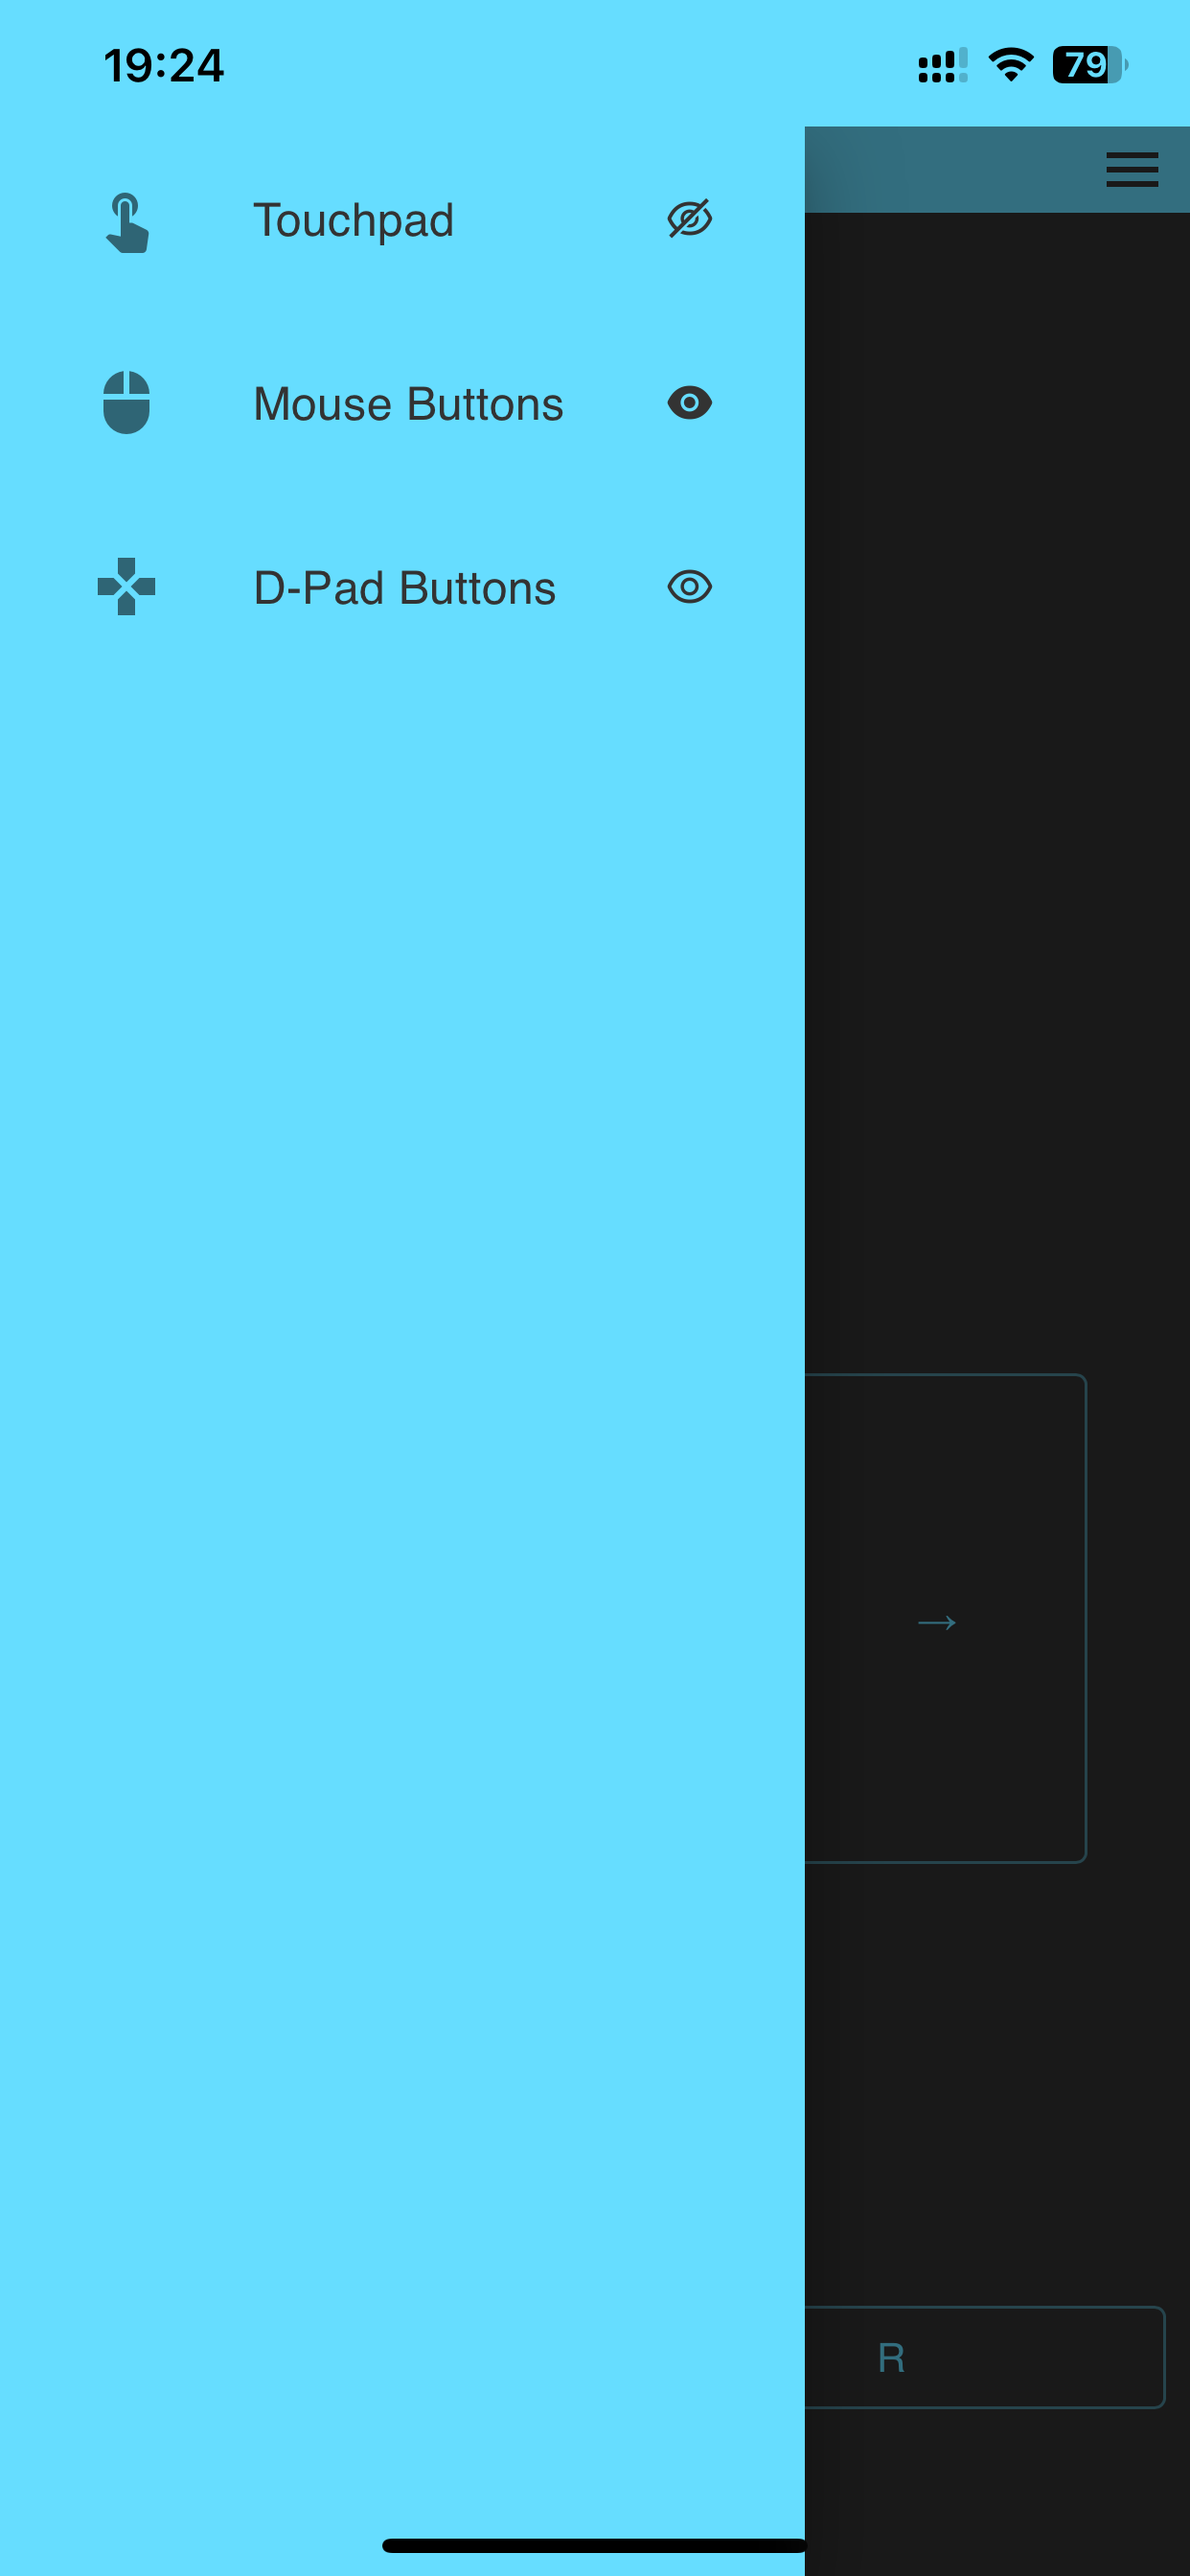
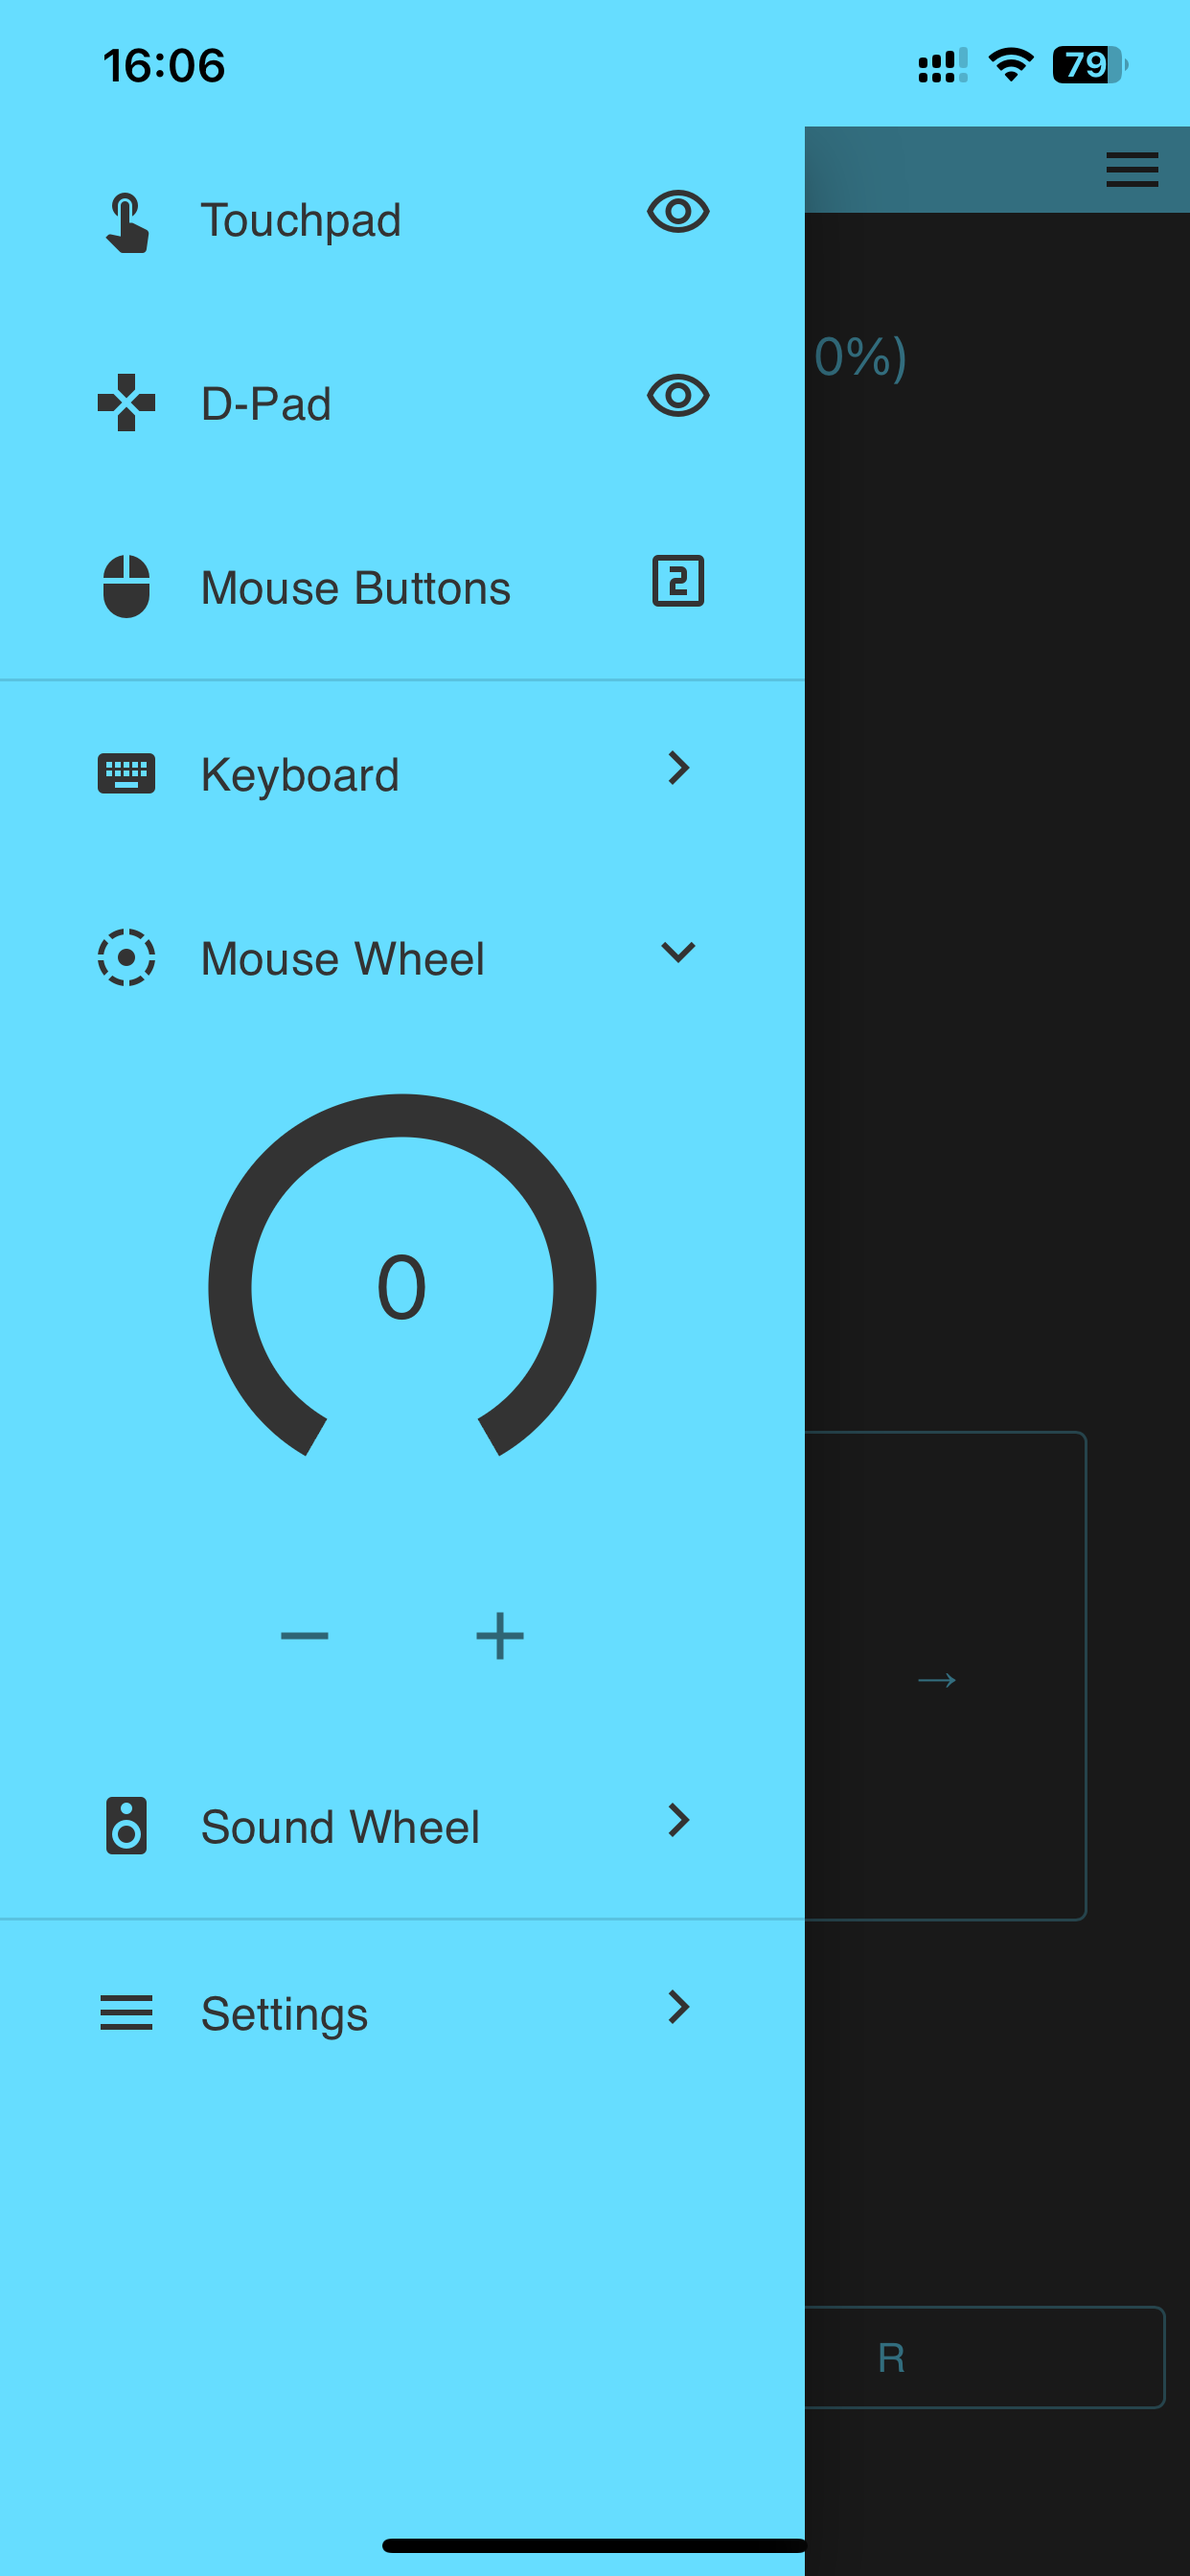
Further Decoupling

diff --git a/src/component/DPad.js b/src/component/DPad.js
@@ -5,9 +5,9 @@ import {Collapse} from "@mui/material";
 import {ThemeProvider} from '@mui/material/styles';
 import {customTheme} from '../utils/Theme';
 import {Context} from '../utils/Context';
-import {api_button} from '../api/button';
+import {api_dpad} from '../api/dpad';
 
-class VButtons extends Component {
+class DPad extends Component {
     constructor(props) {
         super(props);
     }
@@ -15,48 +15,8 @@ class VButtons extends Component {
     render() {
         let dPadButtonWidth = window.innerWidth / 4;
         let dPadButtonHeight = window.innerHeight / 5;
-        const mouseLMRBoxSX = {
-            display: 'flex',
-            justifyContent: 'space-between', // 使按钮间有等距间隙
-            p: 1, // 设置内边距
-            marginBottom: '50px',
-            bottom: 0,
-            position: 'fixed',
-            width: '100%',
-            backgroundColor: 'transparent',
-        };
-        const buttonSX = {
-            width: '100%',
-            mx: '2%'
-        };
         return (
             <ThemeProvider theme={customTheme}>
-                <Box sx={mouseLMRBoxSX}>
-                    {this.context.button23 !== 2 ? (
-                        <>
-                            <Button
-                                color="primary"
-                                variant="outlined"
-                                onClick={() => api_button('Left')}
-                                sx={buttonSX}
-                            >L</Button>
-                            {this.context.button23 === 0 ? (
-                                <Button
-                                    color="primary"
-                                    variant="outlined"
-                                    onClick={() => api_button('Middle')}
-                                    sx={buttonSX}
-                                >M</Button>
-                            ) : null}
-                            <Button
-                                color="primary"
-                                variant="outlined"
-                                onClick={() => api_button('Right')}
-                                sx={buttonSX}
-                            >R</Button>
-                        </>
-                    ) : null}
-                </Box>
                 <Box sx={{
                     display: 'flex',
                     flexDirection: 'column',
@@ -70,7 +30,7 @@ class VButtons extends Component {
                             <Button
                                 color="primary"
                                 variant="outlined"
-                                onClick={() => api_button('DUp')}
+                                onClick={() => api_dpad('DUp')}
                                 sx={{mb: 2, width: dPadButtonWidth, height: dPadButtonHeight}}
                             >↑</Button>
                         </Box>
@@ -85,19 +45,19 @@ class VButtons extends Component {
                             <Button
                                 color="primary"
                                 variant="outlined"
-                                onClick={() => api_button('DLeft')}
+                                onClick={() => api_dpad('DLeft')}
                                 sx={{width: dPadButtonWidth, height: dPadButtonHeight}}
                             >←</Button>
                             <Button
                                 color="primary"
                                 variant="outlined"
-                                onClick={() => api_button('DDown')}
+                                onClick={() => api_dpad('DDown')}
                                 sx={{mx: 2, width: dPadButtonWidth, height: dPadButtonHeight}}
                             >↓</Button>
                             <Button
                                 color="primary"
                                 variant="outlined"
-                                onClick={() => api_button('DRight')}
+                                onClick={() => api_dpad('DRight')}
                                 sx={{width: dPadButtonWidth, height: dPadButtonHeight}}
                             >→</Button>
                         </Box>
@@ -111,6 +71,6 @@ class VButtons extends Component {
 
 }
 
-VButtons.contextType = Context;
+DPad.contextType = Context;
 
-export default VButtons;
+export default DPad;

diff --git a/src/component/MouseButtons.js b/src/component/MouseButtons.js
@@ -1,0 +1,65 @@
+import {Component} from 'react';
+import Button from '@mui/material/Button';
+import Box from '@mui/material/Box';
+import {ThemeProvider} from '@mui/material/styles';
+import {customTheme} from '../utils/Theme';
+import {Context} from '../utils/Context';
+import {api_mousebutton} from '../api/mousebutton';
+
+class MouseButtons extends Component {
+    constructor(props) {
+        super(props);
+    }
+
+    render() {
+        const mouseLMRBoxSX = {
+            display: 'flex',
+            justifyContent: 'space-between', // 使按钮间有等距间隙
+            p: 1, // 设置内边距
+            marginBottom: '50px',
+            bottom: 0,
+            position: 'fixed',
+            width: '100%',
+            backgroundColor: 'transparent',
+        };
+        const buttonSX = {
+            width: '100%',
+            mx: '2%'
+        };
+        return (
+            <ThemeProvider theme={customTheme}>
+                <Box sx={mouseLMRBoxSX}>
+                    {this.context.button23 !== 2 ? (
+                        <>
+                            <Button
+                                color="primary"
+                                variant="outlined"
+                                onClick={() => api_mousebutton('Left')}
+                                sx={buttonSX}
+                            >L</Button>
+                            {this.context.button23 === 0 ? (
+                                <Button
+                                    color="primary"
+                                    variant="outlined"
+                                    onClick={() => api_mousebutton('Middle')}
+                                    sx={buttonSX}
+                                >M</Button>
+                            ) : null}
+                            <Button
+                                color="primary"
+                                variant="outlined"
+                                onClick={() => api_mousebutton('Right')}
+                                sx={buttonSX}
+                            >R</Button>
+                        </>
+                    ) : null}
+                </Box>
+            </ThemeProvider>
+        );
+    }
+
+}
+
+MouseButtons.contextType = Context;
+
+export default MouseButtons;

diff --git a/src/index.js b/src/index.js
@@ -1,11 +1,12 @@
 import React from 'react';
 import ReactDOM from 'react-dom';
 import './index.css';
-import {ButtonProvider} from './utils/Context';
+import {ContextProvider} from './utils/Context';
 import TopBar from "./component/TopBar";
 import SideBar from "./component/SideBar";
 import Touchpad from "./component/Touchpad";
-import VButtons from "./component/VButtons";
+import MouseButtons from "./component/MouseButtons";
+import DPad from "./component/DPad";
 
 // 设置延时函数
 let resizeTimer;
@@ -24,12 +25,13 @@ ReactDOM.render(
     <React.StrictMode>
         <div className="App">
             <header className="App-header">
-                <ButtonProvider>
+                <ContextProvider>
                     <TopBar/>
                     <SideBar/>
                     <Touchpad/>
-                    <VButtons/>
-                </ButtonProvider>
+                    <MouseButtons/>
+                    <DPad/>
+                </ContextProvider>
             </header>
         </div>
     </React.StrictMode>,

diff --git a/src/api/mousebutton.js b/src/api/mousebutton.js
@@ -1,0 +1,14 @@
+export const api_mousebutton = (signal) => {
+    fetch('/api/mousebutton', {
+        method: 'POST',
+        headers: {
+            'Content-Type': 'text/plain',
+        },
+        body: signal,
+    })
+        .then(response => response.json())
+        .then(data => console.log('Success:', data))
+        .catch((error) => {
+            console.error('Error:', error);
+        });
+};

diff --git a/src/api/dpad.js b/src/api/dpad.js
@@ -1,0 +1,14 @@
+export const api_dpad = (signal) => {
+    fetch('/api/dpad', {
+        method: 'POST',
+        headers: {
+            'Content-Type': 'text/plain',
+        },
+        body: signal,
+    })
+        .then(response => response.json())
+        .then(data => console.log('Success:', data))
+        .catch((error) => {
+            console.error('Error:', error);
+        });
+};

diff --git a/src/utils/Context.js b/src/utils/Context.js
@@ -6,7 +6,7 @@ import {setCookie, getCookie} from '../storage/CookieIO';
 export const Context = createContext();
 
 // 创建Provider组件
-export class ButtonProvider extends Component {
+export class ContextProvider extends Component {
     state = {
         buttonSW1: getCookie('buttonSW1') === 'false',
         button23: parseInt(getCookie('button23'), 10) || 0,

diff --git a/modules/server.py b/modules/server.py
@@ -3,6 +3,7 @@ import pyautogui
 import struct
 import sys
 import os
+from modules.config import Config
 
 
 # 动态确定配置文件和静态文件夹路径
@@ -28,28 +29,19 @@ def create_app(static_folder='build', static_url_path=''):
     def serve():
         return send_from_directory(app.static_folder, 'index.html')
 
-    @app.route('/api/button', methods=['POST'])
-    def button_signal():
+    @app.route('/api/dpad', methods=['POST'])
+    def dpad():
         signal = request.data.decode('utf-8')
-        if signal == 'L':
-            pyautogui.click(button='left')
-            action = "left click"
-        elif signal == 'M':
-            pyautogui.click(button='middle')
-            action = "middle click"
-        elif signal == 'R':
-            pyautogui.click(button='right')
-            action = "right click"
-        elif signal == 'W':
+        if signal == 'DUp':
             pyautogui.press('up')
             action = "press up"
-        elif signal == 'A':
+        elif signal == 'DLeft':
             pyautogui.press('left')
             action = "press left"
-        elif signal == 'S':
+        elif signal == 'DDown':
             pyautogui.press('down')
             action = "press down"
-        elif signal == 'D':
+        elif signal == 'DRight':
             pyautogui.press('right')
             action = "press right"
         else:
@@ -57,8 +49,25 @@ def create_app(static_folder='build', static_url_path=''):
         print(f"Performed {action}.")
         return jsonify({"status": "success", "action": action})
 
+    @app.route('/api/mousebutton', methods=['POST'])
+    def mousebutton():
+        signal = request.data.decode('utf-8')
+        if signal == 'Left':
+            pyautogui.click(button='left')
+            action = "left click"
+        elif signal == 'Middle':
+            pyautogui.click(button='middle')
+            action = "middle click"
+        elif signal == 'Right':
+            pyautogui.click(button='right')
+            action = "right click"
+        else:
+            return "Invalid signal", 400
+        print(f"Performed {action}.")
+        return jsonify({"status": "success", "action": action})
+
     @app.route('/api/mousewheel', methods=['POST'])
-    def mouse_wheel():
+    def mousewheel():
         # 打印原始请求数据，查看其确切内容
         raw_data = request.get_data(as_text=True)  # 获取文本格式的原始数据
         # print(f"Received raw data: '{raw_data}'")
@@ -67,21 +76,22 @@ def create_app(static_folder='build', static_url_path=''):
         except ValueError as e:
             print(f"Error converting data to int: {e}")
             return jsonify({"status": "error", "message": "Invalid data format"}), 400
-        # 为了增加滚动的灵敏度，我们将滚动量进行了五次方运算
+        # 立方运算增加滚动的灵敏度
         wheel_amount = wheel_amount * wheel_amount * wheel_amount * wheel_amount * wheel_amount
+        wheel_amount = wheel_amount * Config.MWheel_SENSITIVITY + Config.MWheel_CONSTANT
         pyautogui.scroll(wheel_amount)
         print(f"Scrolled {wheel_amount} steps")
         return jsonify({"status": "success", "steps": wheel_amount})
 
     @app.route('/api/touchpad', methods=['POST'])
-    def receive_coordinates():
+    def touchpad():
         data = request.data
         x_percentage, y_percentage = struct.unpack('<ff', data)
         if x_percentage == 0 and y_percentage == 0:
             pass
         else:
-            x_move = (x_percentage / 100) * screen_width * 0.06  # SENSITIVITY 值硬编码进来了
-            y_move = (y_percentage / 100) * screen_height * 0.06
+            x_move = (x_percentage / 100.0) * screen_width * Config.TPad_SENSITIVITY * 0.06
+            y_move = (y_percentage / 100.0) * screen_height * Config.TPad_SENSITIVITY * 0.06
             pyautogui.moveRel(x_move, y_move, duration=0.05)
         print(f"Received coordinates: x={x_percentage}%, y={y_percentage}%")
         return jsonify({"status": "success", "x": x_percentage, "y": y_percentage})

diff --git a/modules/config.py b/modules/config.py
@@ -1,0 +1,4 @@
+class Config:
+    TPad_SENSITIVITY = 1
+    MWheel_SENSITIVITY = 1
+    MWheel_CONSTANT = 0
